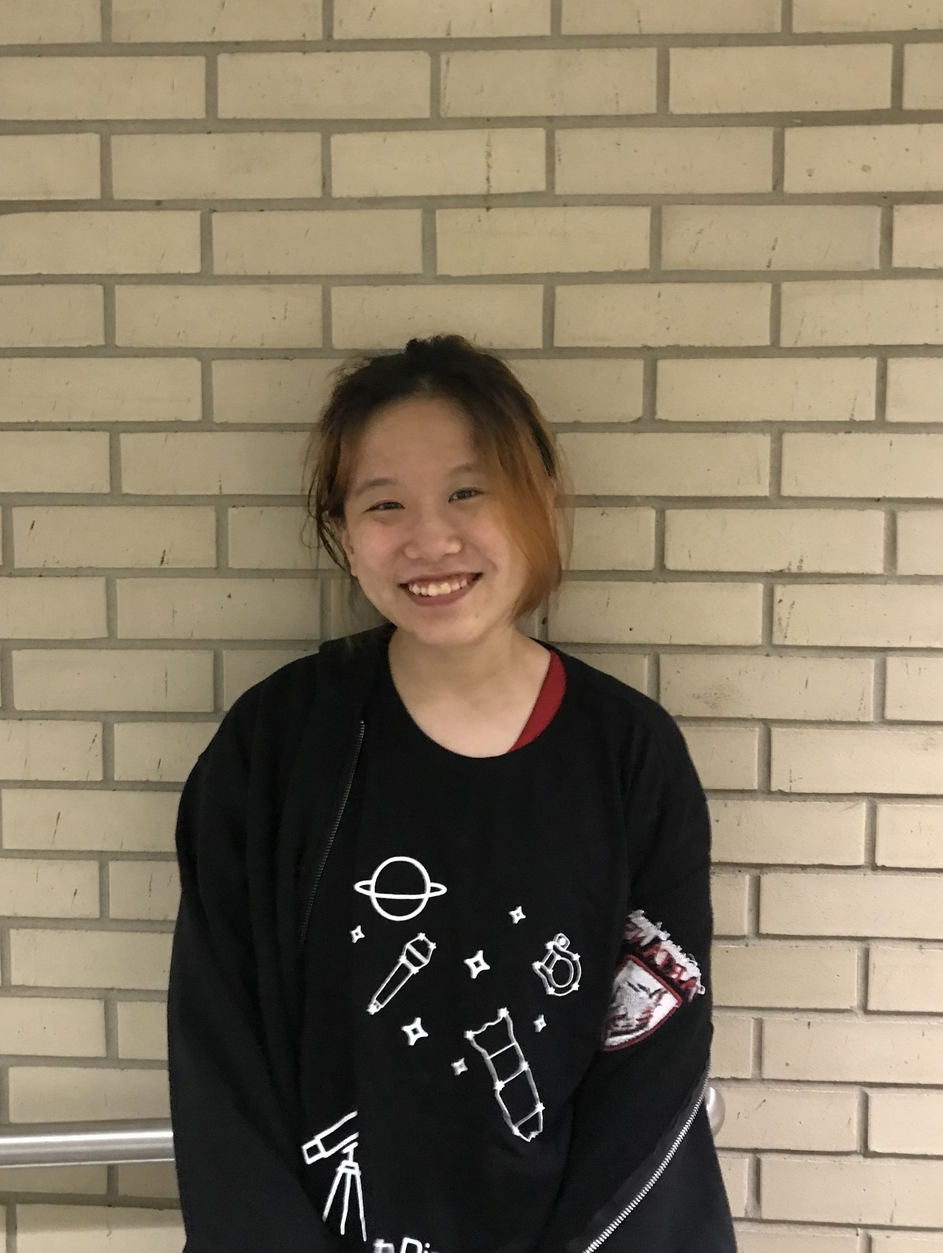
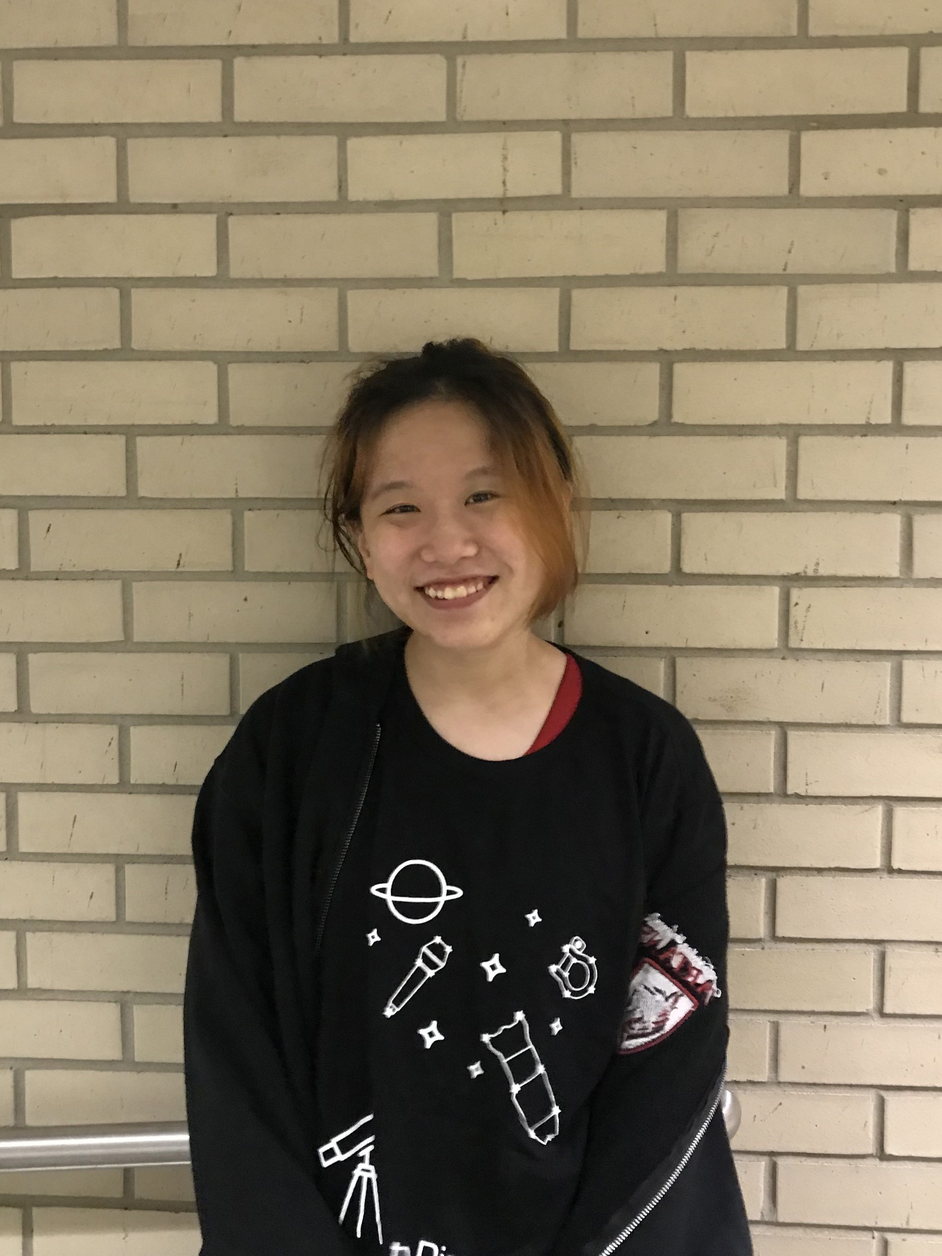
Officer and Equipment page update (#184)
* update equipment page contents

* officer photo and bio updates

* correct image name

* update haichuas bio

diff --git a/pages/equipment.md b/pages/equipment.md
@@ -179,13 +179,16 @@ We will design an appropriate system for your event based on the event requireme
 
 ##### Control and Playback
 - 2 Apple Mac Mini
+- 1 Blackmagic Design ATEM 1 M/E Constellation HD Live Production Switcher (1 RU)
+- 1 Blackmagic Design ATEM Mini HDMI Live Stream Switcher
 
 ## Miscellaneous
 
-- 8 10'x12"x12" Thomas box truss (silver)
+- 11 10'x12"x12" Thomas box truss (silver)
 - 6 8'x12"x12" Thomas box truss (silver)
 - 8 Columbus McKinnon Lodestar half-ton chain motors, 16 fpm
 - 2 Columbus McKinnon Prostar quarter-ton chain motors, 16 fpm
 - 4 Columbus McKinnon Prostar quarter-ton chain motors, 12 fpm
+- 3 3-phase Power Distributor Systems with varying cable configurations
 
 [Back to top](#top)
